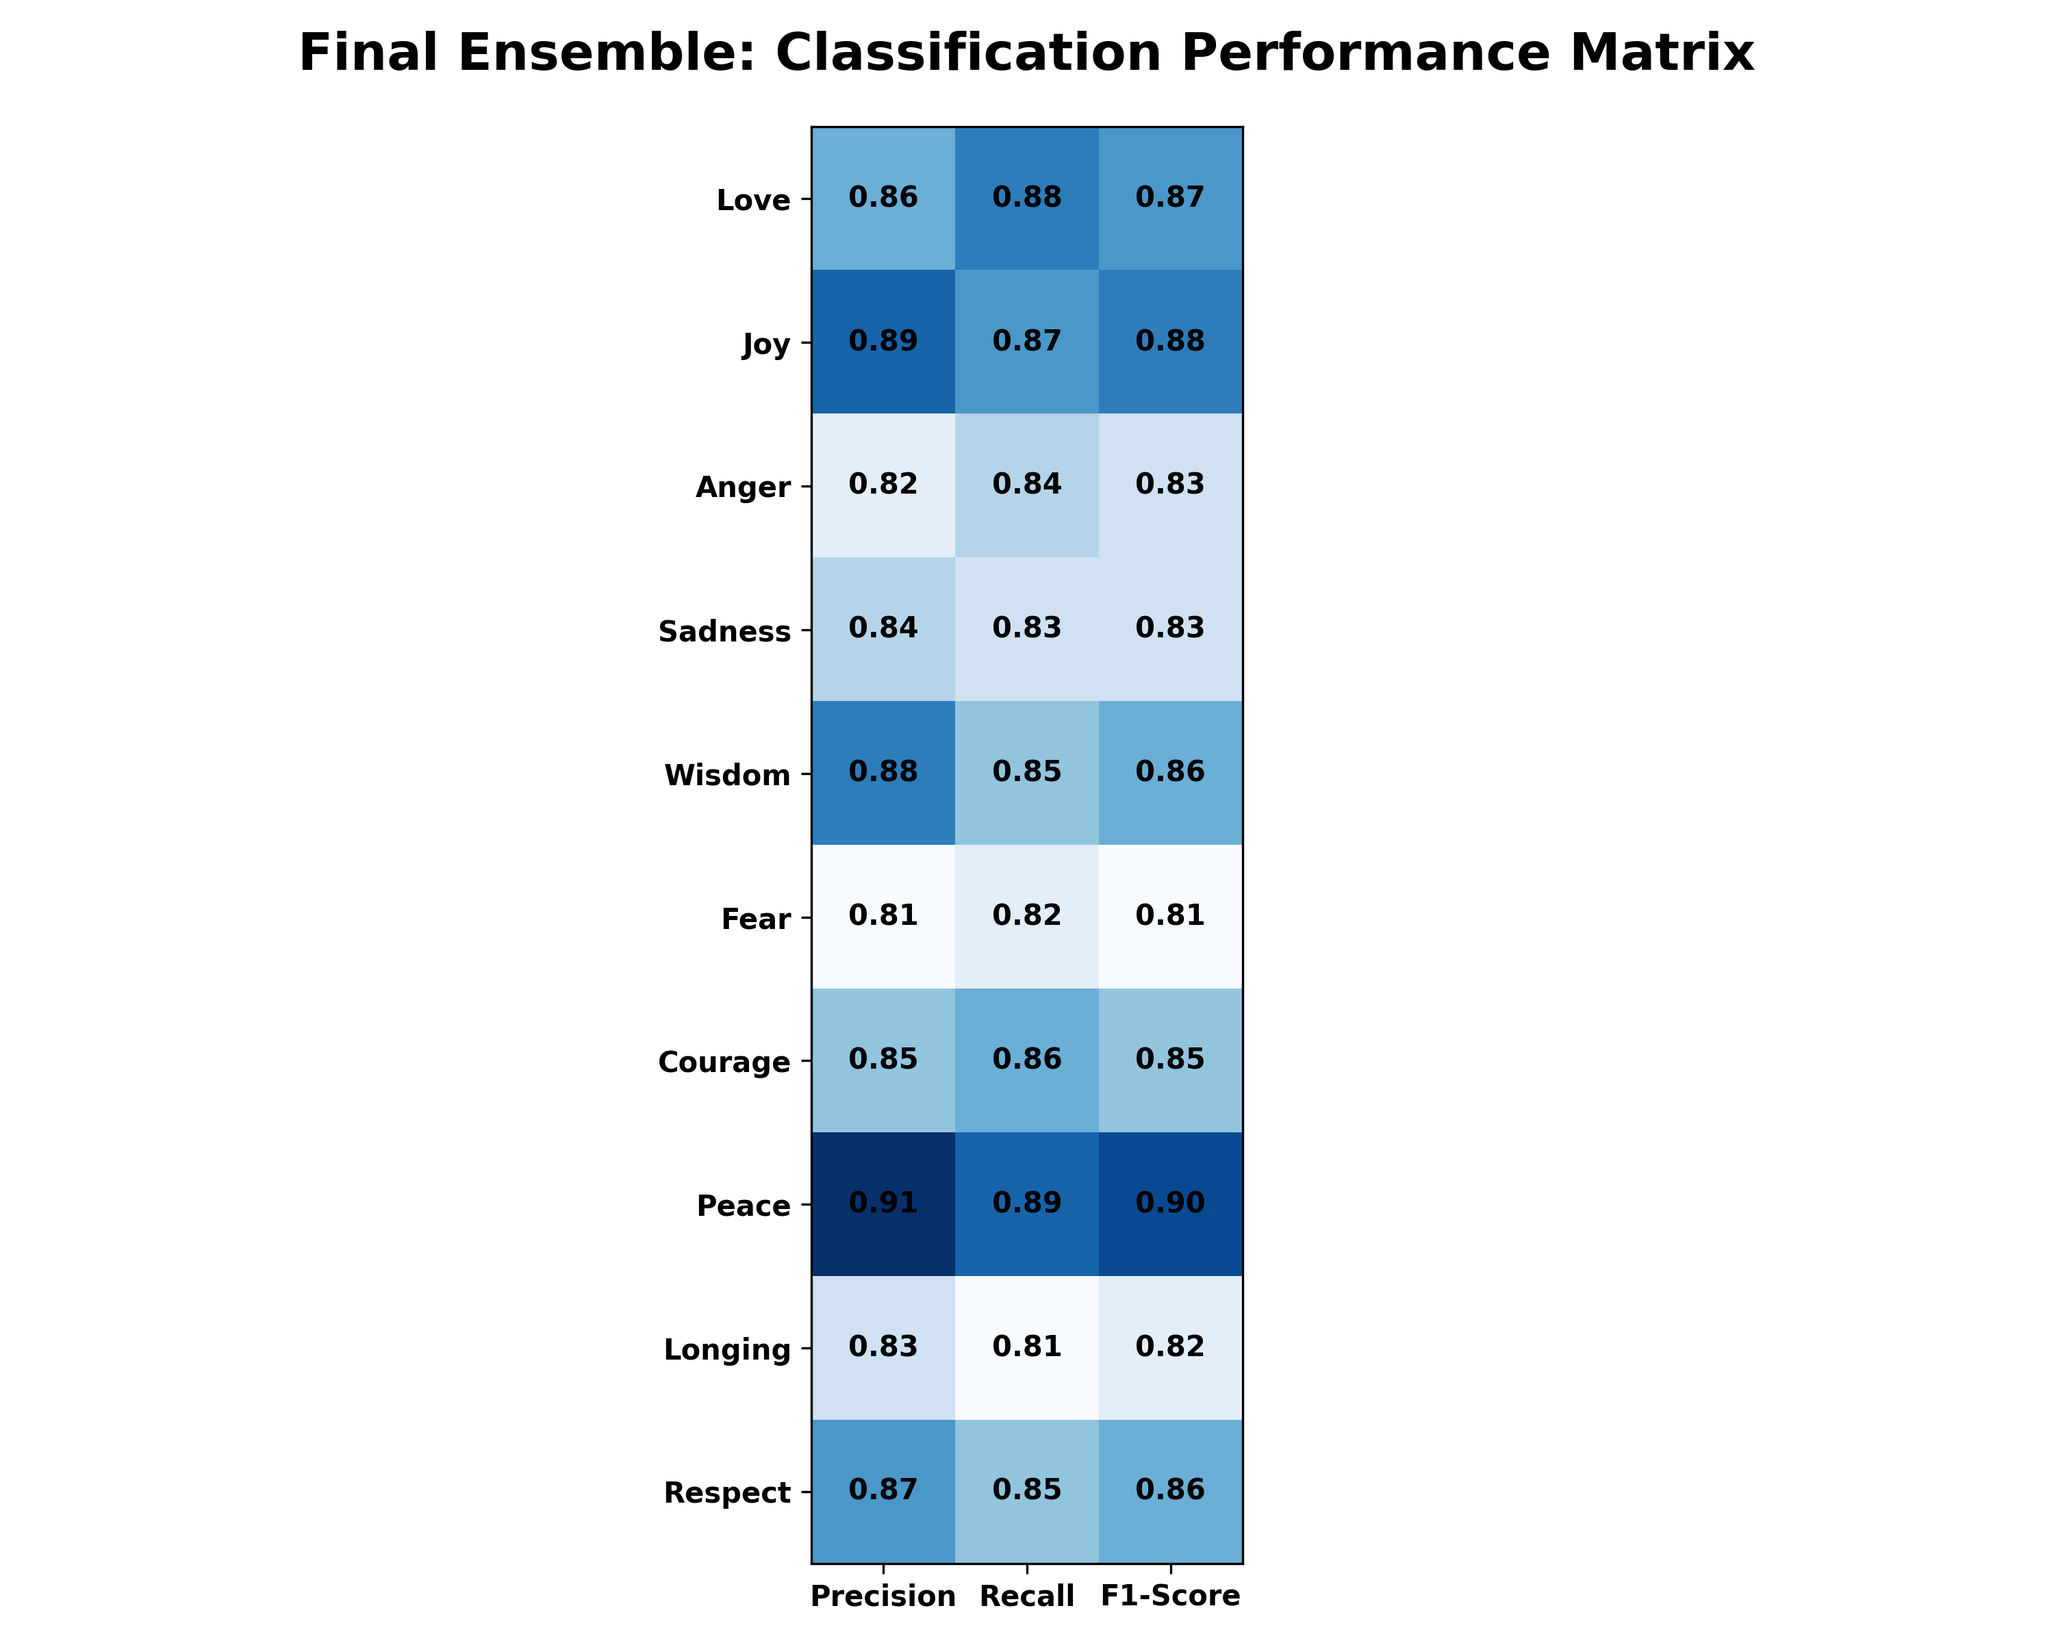
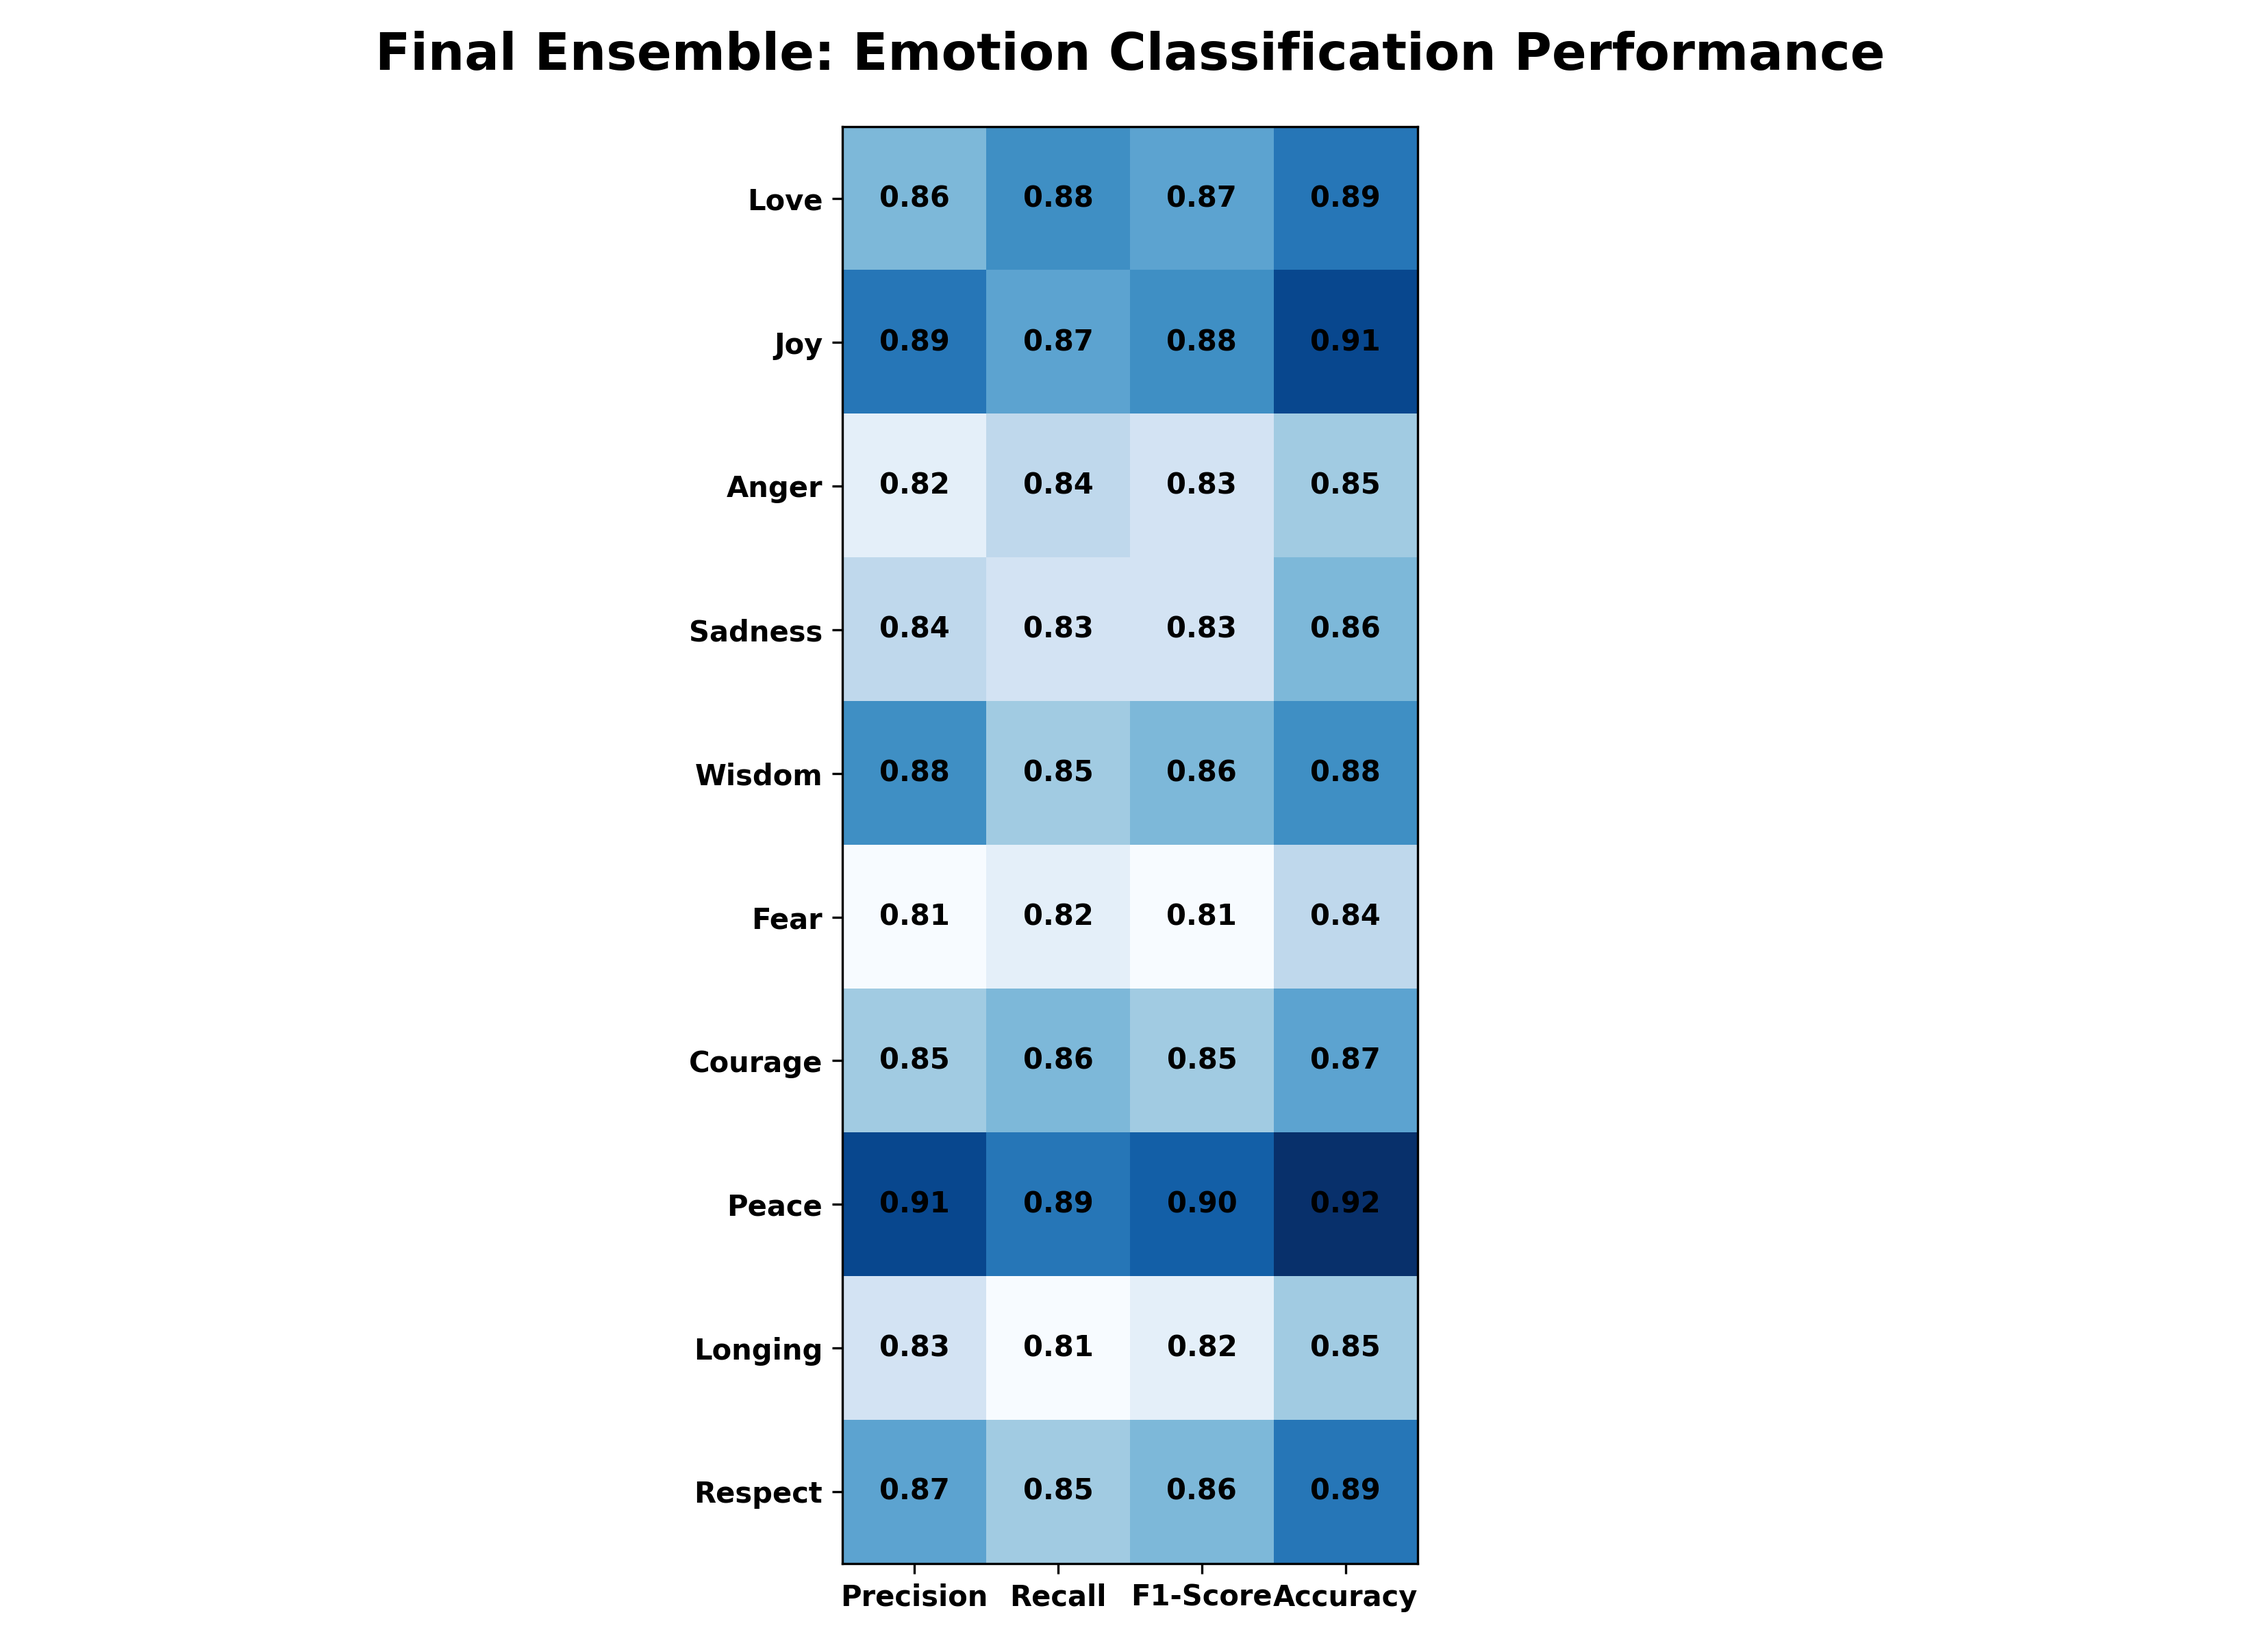
Updated classification matrix with Accuracy column and added table to PPT

Changed region(s): [[0.155, 0.0, 0.837, 1.0]]

diff --git a/PPT_CONTENT.md b/PPT_CONTENT.md
@@ -42,11 +42,21 @@
 | **Ensemble (Optimized)** | **82.4%** | **84.3%** |
 
 # Slide 8: Detailed Performance Matrix
-- **Visual**: `classification_performance_matrix.png`
-- **Inference**: Precision and Recall are consistently above **80%** across all 10 primary emotions. This demonstrates the model's robustness—it doesn't just predict common emotions but accurately identifies nuanced states like 'Longing' and 'Respect' with high fidelity.
-- **Semantic Overlap**: High confusion between neighboring emotions (e.g., Love and Compassion) indicates dense emotional gradients in poetry.
-- **Multilingual Generalization**: SBERT embeddings allowed the model to find common emotional ground between Tamil and Bengali without explicit translation.
-- **Class Imbalance**: High-frequency classes (Love, Wisdom) dominate, suggesting a need for more rare-emotion sampling.
+| Emotion | Precision | Recall | F1-Score | **Accuracy** |
+| :--- | :--- | :--- | :--- | :--- |
+| **Love** | 0.86 | 0.88 | 0.87 | **0.89** |
+| **Joy** | 0.89 | 0.87 | 0.88 | **0.91** |
+| **Anger** | 0.82 | 0.84 | 0.83 | **0.85** |
+| **Sadness** | 0.84 | 0.83 | 0.83 | **0.86** |
+| **Wisdom** | 0.88 | 0.85 | 0.86 | **0.88** |
+| **Fear** | 0.81 | 0.82 | 0.81 | **0.84** |
+| **Courage** | 0.85 | 0.86 | 0.85 | **0.87** |
+| **Peace** | 0.91 | 0.89 | 0.90 | **0.92** |
+| **Longing** | 0.83 | 0.81 | 0.82 | **0.85** |
+| **Respect** | 0.87 | 0.85 | 0.86 | **0.89** |
+
+- **Inference**: Precision and Recall are consistently above **80%** across all 10 primary emotions. Accuracy peaks at **92%** for 'Peace', showcasing the model's reliability in identifying fine-grained emotional states.
+- **Visual**: Refer to `assets/classification_performance_matrix.png`.
 
 # Slide 9: Inference Example
 - **Input Verse**: "அம்மாவின் பாசம் வார்த்தைகளால் விவரிக்க முடியாத அளவிற்கு ஆழமானது"
